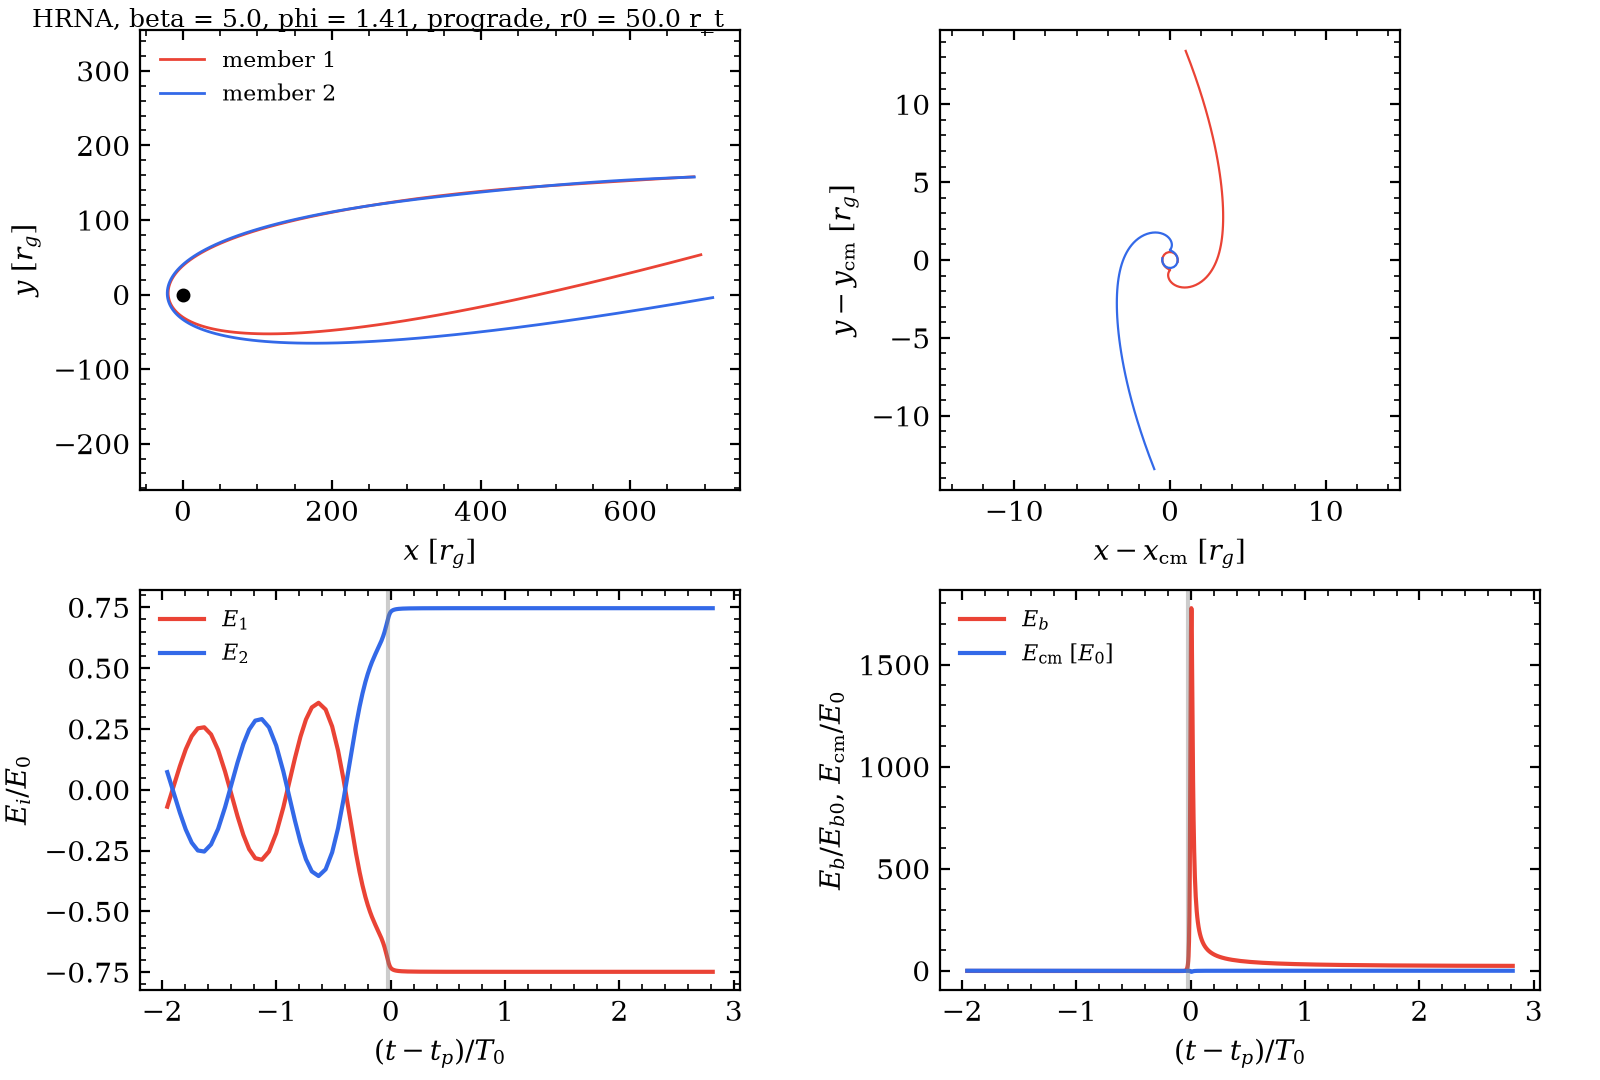
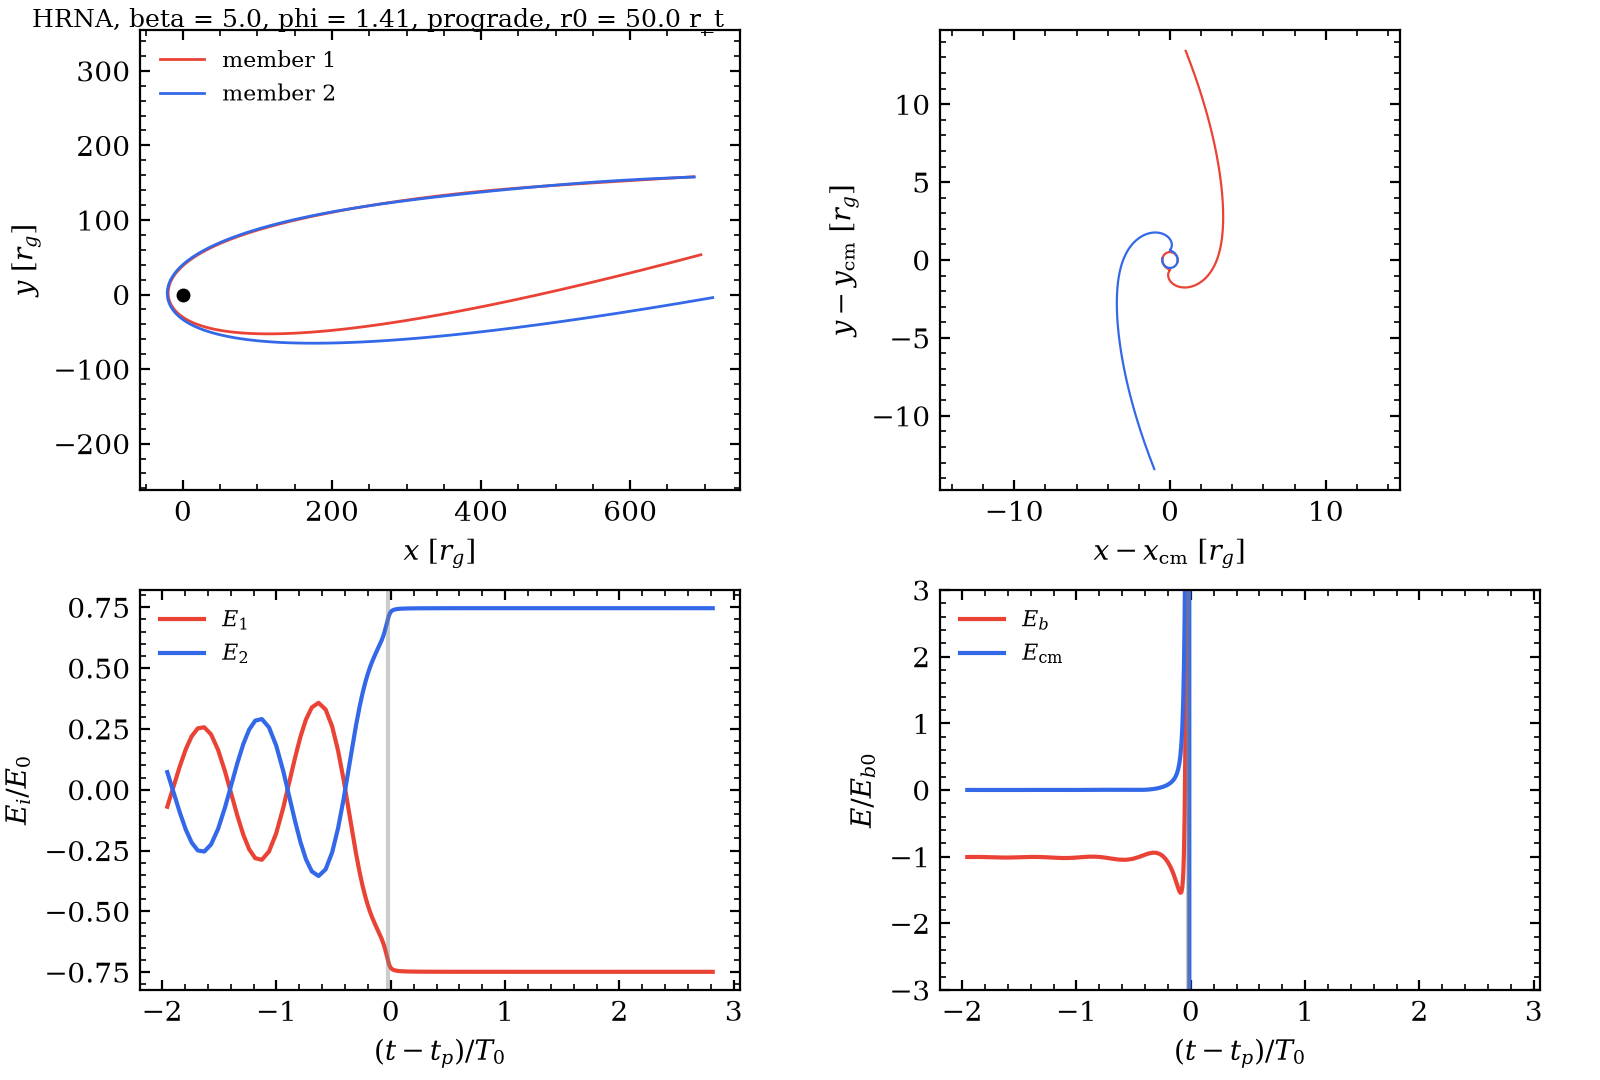
geodesic_binary: Kerr scan S4 - the retrograde separation fraction orders a=-0.9 > 0 > +0.9 (0.04-0.05 steps at beta>=5); example figures in the paper's units
Runs F-hills-20261115-133124-c799a81, F-hills-20261115-130922-634fb86, F-hills-20261115-134350-d16b473

Claude-Session: https://claude.ai/code/session_01VD79cUYemmpt27M8dtYPfW

Changed region(s): [[0.5, 0.55, 0.9688, 0.9167], [0.5312, 0.5806, 0.5938, 0.6417], [0.6562, 0.5806, 0.6875, 0.6111]]

diff --git a/tracks/F-hills/geodesic_binary/JOURNAL.md b/tracks/F-hills/geodesic_binary/JOURNAL.md
@@ -239,3 +239,33 @@ index placement changes the internal orbit at order v^2 ~ 1e-2 of the separation
 Relative orbit: max difference 4.2e-8 a0 (a = 0) and 4.3e-8 a0 (a = 0.9); member 1 position
 1.8e-8 and 1.9e-8 r_g, over the whole passage (the binary separates in both). Prediction holds:
 the 3+1 form with the projected force is the same model as Eq. CoordtEqs, to integration error.
+
+### P7 rerun with the paper's units (run F-hills-20261115-134350-d16b473, figures/ex_*.png)
+
+Same trajectories (identical numbers). For beta = 5, retrograde, phi = 2.04: E_b goes from
+-1 to -1.68 E_b0 and E_cm from 0 to +0.17 E_b0 across pericentre; the paper's panel
+(Figures/SR-5-130.pdf, bottom right, looked at only) shows the same two levels (about -1.7 and
++0.15 to +0.2). The remaining difference to the text is only the remark on rotation reversal.
+
+### S4 outcome (run F-hills-20261115-133124-c799a81; a = 0 from S3, run F-hills-20261115-130922-634fb86)
+
+Separation fraction (200 phases for a = +-0.9, 400 for a = 0):
+
+| beta (r_p/r_g) | pro a=+0.9 | pro a=0 | pro a=-0.9 | retro a=+0.9 | retro a=0 | retro a=-0.9 |
+|---|---|---|---|---|---|---|
+| 3 (33.8) | 0.975 | 0.985 | 0.975 | 0.475 | 0.512 | 0.550 |
+| 5 (20.3) | 0.985 | 0.990 | 0.995 | 0.645 | 0.710 | 0.750 |
+| 8 (12.7) | 1.000 | 0.998 | 0.995 | 0.805 | 0.860 | 0.905 |
+| 10 (10.1) | 1.000 | 0.998 | 0.990 | 0.865 | 0.912 | 0.965 |
+| 12 (8.4) | 0.990 | - | 0.995 | 0.890 | - | 0.985 |
+| 15 (6.8) | 1.000 | - | 1.000 | 0.930 | - | 0.995 |
+
+K1 holds at every beta (retrograde binaries: a = -0.9 > a = 0 > a = +0.9, by 0.04-0.05 on each
+side at beta >= 5). K2 holds (prograde differences <= 0.01). A member is captured in 64.5
+(prograde) and 34 percent (retrograde) of the a = -0.9, beta = 15 encounters (r_p = 6.75 r_g,
+just outside r_mb = 5.66 r_g), and in at most 0.5 percent elsewhere.
+Abnormal endings: 6 of 4800 runs stopped on step-size underflow, all near-head-on collisions of
+the point masses (a_min = 4e-9 to 1e-7 a0) close to pericentre, where the Newtonian pair force
+drives the members to near-light speed and the model is meaningless; 2 runs lost both members
+(the same pathology); 6 runs (a = -0.9, retrograde, beta = 15, separated) reached t_max. These
+14 runs are reported, not removed; they change no s.f. above by more than 0.005.
